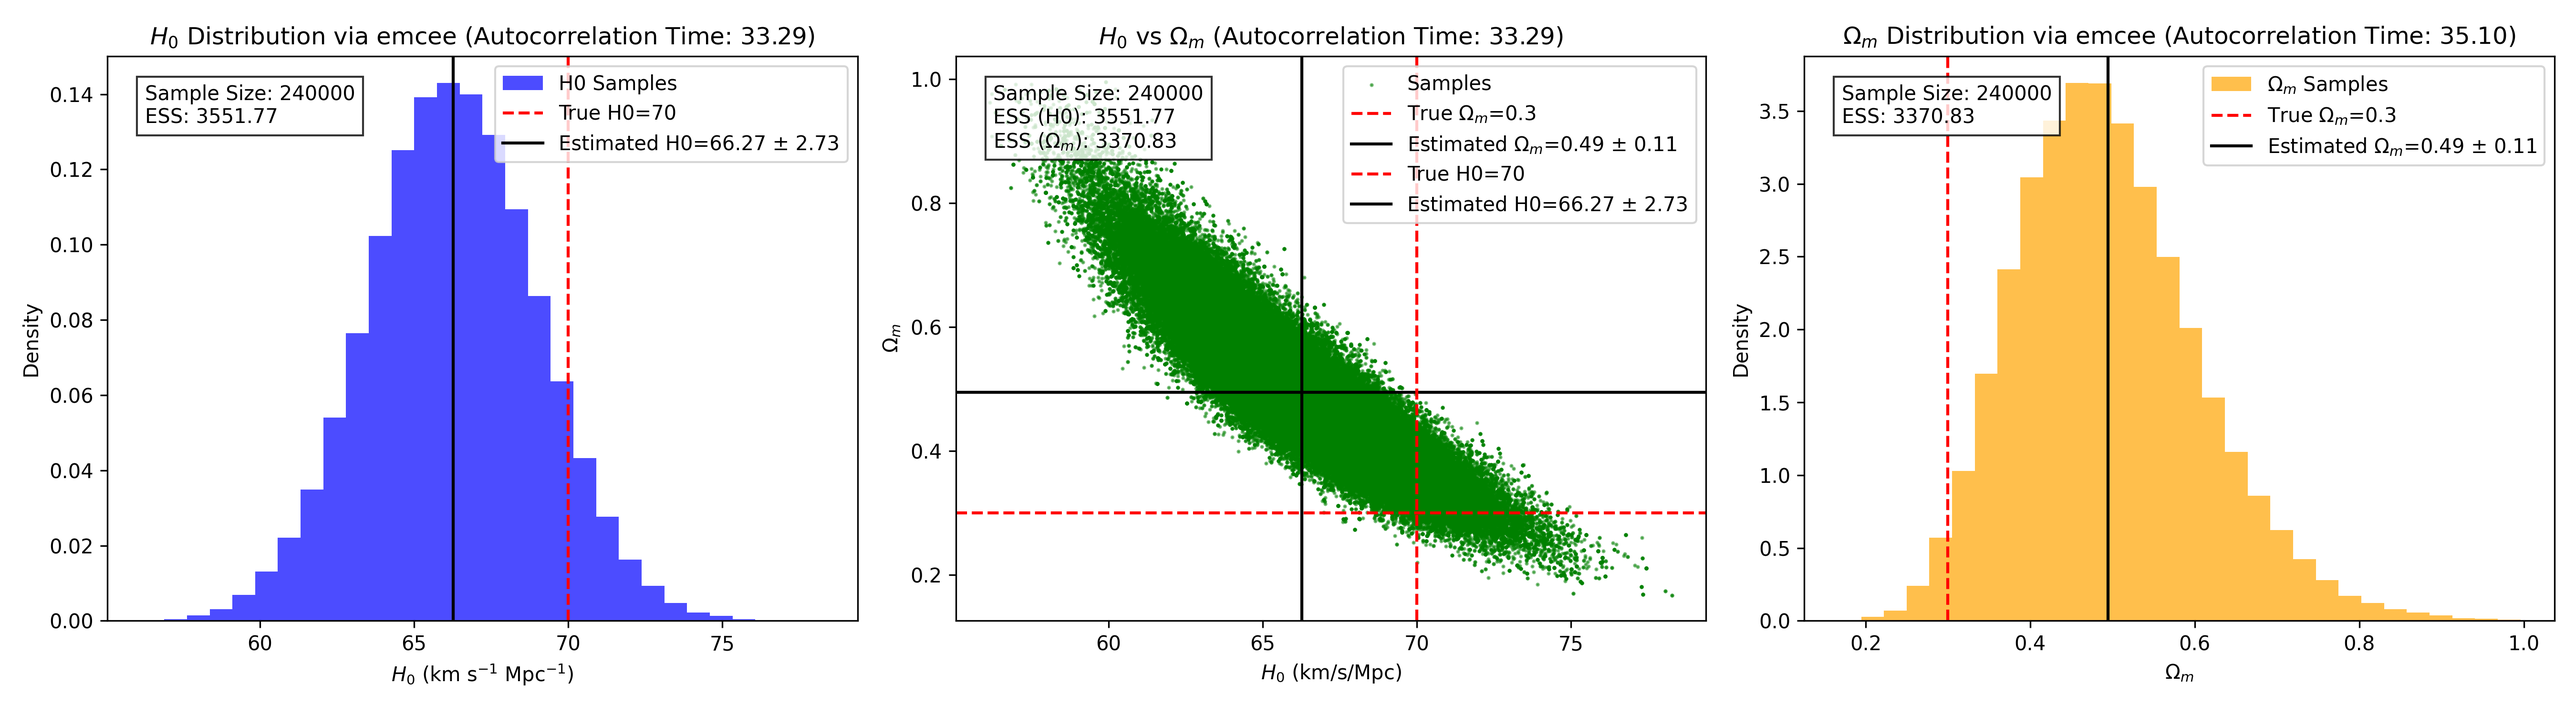
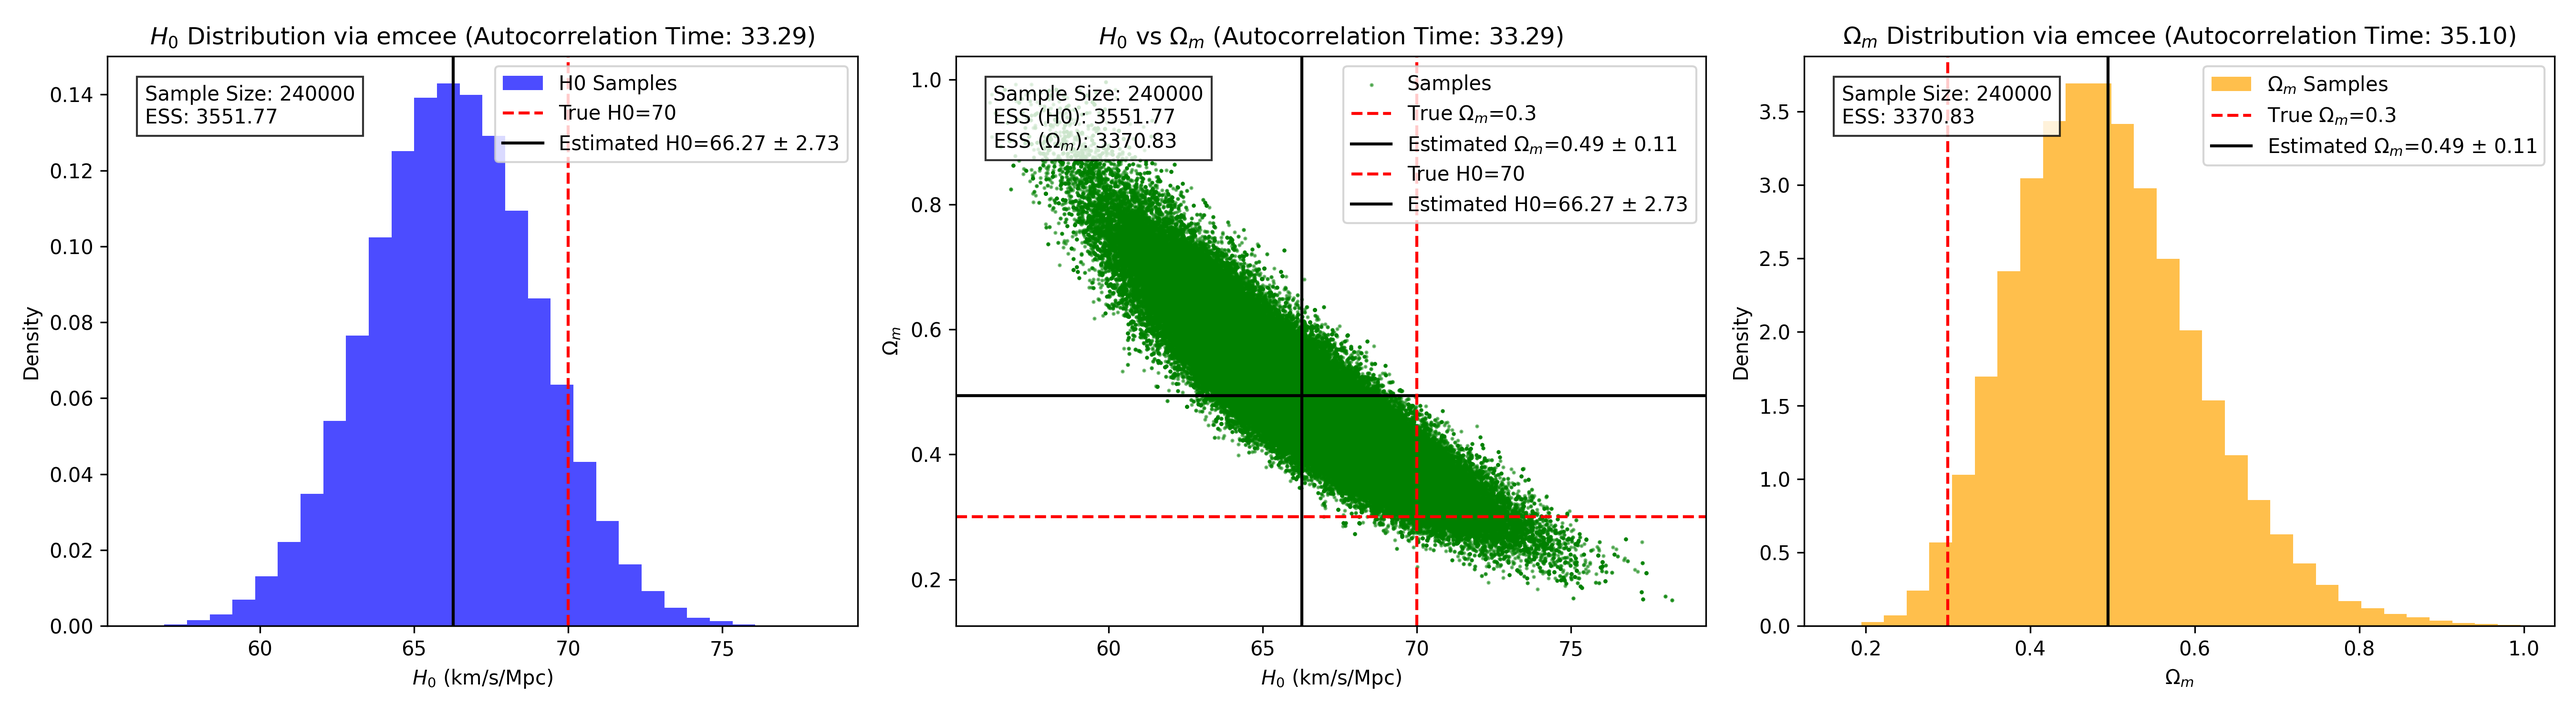
Final fig emcee

diff --git a/FinalProject/FinalProject_emcee.py b/FinalProject/FinalProject_emcee.py
@@ -82,7 +82,7 @@ plt.subplot(1, 3, 1)
 plt.hist(H0_samples, bins=30, density=True, alpha=0.7, color='blue', label="H0 Samples")
 plt.axvline(true_H0, color='r', linestyle='--', label=f"True H0={true_H0}")
 plt.axvline(H0_mean, color='k', linestyle='-', label=f"Estimated H0={H0_mean:.2f} ± {H0_std:.2f}")
-plt.xlabel("$H_0$ (km s$^{-1}$ Mpc$^{-1}$)")  # Corrected xlabel
+plt.xlabel("$H_0$ (km/s/Mpc)")
 plt.ylabel("Density")
 plt.legend()
 plt.title(f"$H_0$ Distribution via emcee (Autocorrelation Time: {tau_H0:.2f})")
